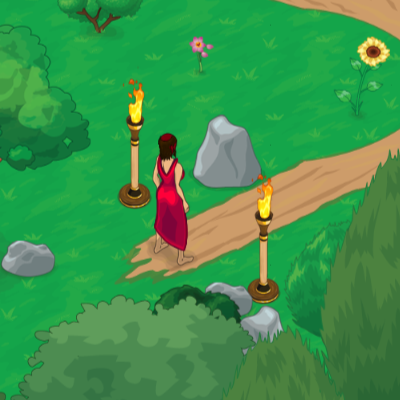
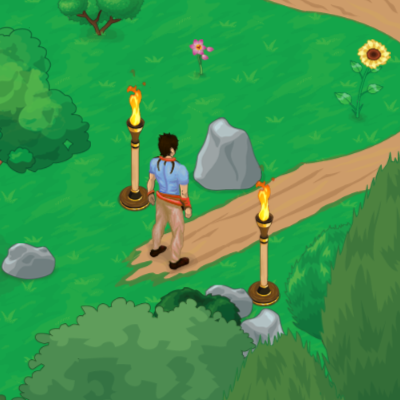
changed m1_A as dorux search location; a second strength option for dual miscrits in presets

diff --git a/miscrits.py b/miscrits.py
@@ -156,6 +156,9 @@ def playSound(audio: pygame.mixer.Sound) -> None:
 
 
 def checkActive():
+    if LXVI_locateCenterOnScreen(UIImage("loginbtn.png"), 0.9) is not None:
+        login()
+        return True
     return LXVI_locateCenterOnScreen(UIImage(APPNAMEPNG), 0.8) is not None
 
 
@@ -368,7 +371,7 @@ def updateCurrentMiscrit():
     PRESETS["newProfile"]["poke"] = 10
 
     with open("mPresets.json5", "w") as file:
-        outputtxt = json.dumps(PRESETS,indent=2)
+        outputtxt = json.dumps(PRESETS, indent=2)
         file.write(outputtxt)
 
     print("Concluding process...")
@@ -532,7 +535,7 @@ def searchMode():
 
 
 def encounterMode():
-    global miscrit, current, weakness, b, sNo, onSkillPage, rarity, battle_start, toClick, toRun, firstBattle  # noqa
+    global miscrit, current, weakness, strength1, b, sNo, onSkillPage, rarity, battle_start, toClick, toRun, firstBattle  # noqa
 
     b += 1
     sNo = 1
@@ -542,6 +545,7 @@ def encounterMode():
     onSkillPage = 1
     battle_start = time.perf_counter()
     weakness = False
+    strength1 = False
 
     while LXVI_locateCenterOnScreen(UIImage("battlebtns.png"), 0.8) is None:
         pass
@@ -557,7 +561,9 @@ def encounterMode():
     # miscritsCheck info
     click(UIImage("miscripedia.png"), 0.8, 0.555, 0)
     getMiscritData()
-    print(f"{qualityDict[wildScore]} | {Fore.WHITE}{miscrit}{Fore.LIGHTBLACK_EX} wants to fight.")
+    print(
+        f"{qualityDict[wildScore]} | {Fore.WHITE}{miscrit}{Fore.LIGHTBLACK_EX} wants to fight."
+    )
     click(UIImage("mpedia_exit.png"), 0.8, 0, 0)
     pyautogui.leftClick()
 
@@ -566,6 +572,7 @@ def encounterMode():
         is not None
     ):
         action = -1
+        strength1 = True
     elif (
         LXVI_locateCenterOnScreen(UIImage(PRESETS[current]["weakness"]), 0.8)
         is not None
@@ -579,6 +586,7 @@ def encounterMode():
             is not None
         ):
             action = -1
+            strength1 = False
         elif (
             LXVI_locateCenterOnScreen(UIImage(PRESETS[current]["weakness2"]), 0.8)
             is not None
@@ -676,7 +684,10 @@ def encounterMode():
             elif (
                 action == -1
             ):  # alternative attack to use for elements that are weak against you
-                useSkill(toClick, PRESETS[current]["strong"])
+                if strength1:
+                    useSkill(toClick, PRESETS[current]["strong"])
+                else:
+                    useSkill(toClick, PRESETS[current]["strong2"])
             elif action == 1:  # skill for weakness element
                 if not PRESETS[current]["ignoreWeakness"]:
                     useSkill(toClick, PRESETS[current]["weak"])
@@ -971,13 +982,13 @@ def login():
         LXVI_moveTo(toClick)
         time.sleep(3)
         pyautogui.leftClick()
-    while LXVI_locateCenterOnScreen(UIImage("miscripedia.png"), 0.75) is not None:
+    while LXVI_locateCenterOnScreen(UIImage("miscripedia.png"), 0.75) is None:
         if time.perf_counter() - wait >= 30:
             print("Having trouble signing back in. Concluding process...")
             conclude()
         pass
     print("Account logged back in. Resuming...   ")
-    time.sleep(10)
+    time.sleep(5)
     dailySpin()
 
 
@@ -1045,7 +1056,6 @@ def show(key: Key | KeyCode):
         if key.char == "q":
             toContinue = False
             print("Stopping miscrits...")
-            
             pyautogui.moveTo((0, 0))
 
 
